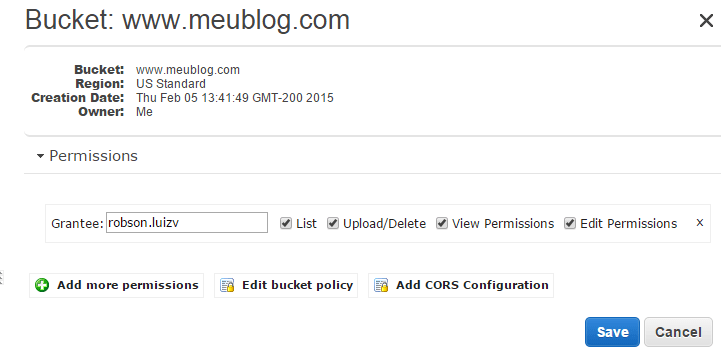
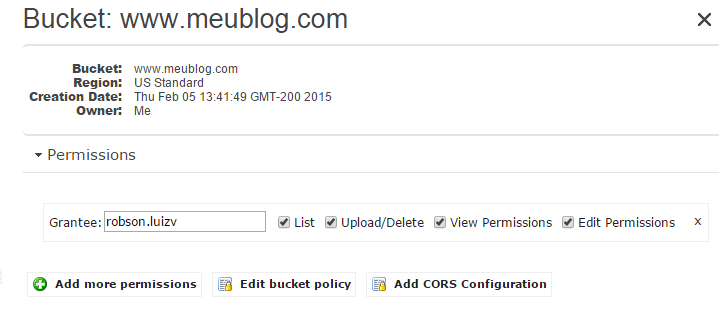
Pequenos ajustes nas imagens

diff --git a/_posts/2015-02-10-hospedando-seu-blog-na-aws-por-centavos.md b/_posts/2015-02-10-hospedando-seu-blog-na-aws-por-centavos.md
@@ -28,6 +28,7 @@ O Willian Justen escreveu um [ótimo post](http://willianjusten.com.br/perguntas
 
 O Fernando Daciuk tem [diversos posts](http://blog.da2k.com.br/2014/01/19/manter-repositorio-github-forkado-sincronizado-com-o-original/) sobre Git e Github no seu blog. 
 
+
 ##Hospedagem
 
 Para hospedagem vou demonstrar alguns serviços da AWS (Amazon Web Services). A AWS oferece uma enorme gama de serviços utilizando o paradigma de Cloud Computing. A principal característica destes serviços é o modelo pay-as-you-go, onde você só é cobrado pelo tempo que utilizar o serviço, sem contratos.
@@ -54,7 +55,7 @@ No console principal, selecione o S3:
 	<img src="/images/2015-02-10-hospedando-seu-blog-na-aws-por-centavos/1.png" alt="image">
 </figure>
 
-Clique no botão "Create Bucket". O bucket é o lugar onde irão ficar armazenados seus objetos no S3. Após, preencha o nome do bucket com o domínio do seu blog. Escolha a região US Standard pois é a mais barata e clique em "Create".
+Clique no botão *Create Bucket*. O bucket é o lugar onde irão ficar armazenados seus objetos no S3. Após, preencha o nome do bucket com o domínio do seu blog. Escolha a região US Standard pois é a mais barata e clique em *Create*.
 
 <figure>
 	<img src="/images/2015-02-10-hospedando-seu-blog-na-aws-por-centavos/2.png" alt="image">
@@ -66,7 +67,7 @@ Faça upload do conteúdo do seu blog dentro do bucket. Se você já leu o post 
 	<img src="/images/2015-02-10-hospedando-seu-blog-na-aws-por-centavos/3.png" alt="image">
 </figure>
 
-Selecione o bucket criado e vá na aba "Properties" e na opção "Permissions". Clique no botão "Edit bucket policy"
+Selecione o bucket criado e vá na aba *Properties* e na opção *Permissions*. Clique no botão *Edit bucket policy*
 
 <figure>
 	<img src="/images/2015-02-10-hospedando-seu-blog-na-aws-por-centavos/4.png" alt="image">
@@ -91,7 +92,7 @@ Adicione o seguinte código:
 }
 {% endhighlight %}
 
-Agora no menu "Static Web Hosting" selecione a opção "Enable website hosting" e informe sua página inicial e a página de erro.
+Agora no menu *Static Web Hosting* selecione a opção *Enable website hosting* e informe sua página inicial e a página de erro.
 
 <figure>
 	<img src="/images/2015-02-10-hospedando-seu-blog-na-aws-por-centavos/5.png" alt="image">
@@ -113,45 +114,45 @@ Mas como podemos entregar o conteúdo do nosso blog de forma otimizada para qual
 
 Assim se alguém acessar o seu blog do Brasil, os arquivos serão recuperados dos servidores da AWS localizados no Brasil, reduzindo a latência e entregando uma melhor experiência para o leitor.
 
-O primeiro passo para termos estas vantagens em nosso blog é selecionar a opção CloudFront no console principal, clicar em "Create Distribution" e selecionar a opção Web. Em "Origin Domain Name" selecione o bucket criado no S3. As demais opções não precisam ser alteradas.
+O primeiro passo para termos estas vantagens em nosso blog é selecionar a opção CloudFront no console principal, clicar em *Create Distribution* e selecionar a opção Web. Em *Origin Domain Name* selecione o bucket criado no S3. As demais opções não precisam ser alteradas.
 
 <figure>
 	<img src="/images/2015-02-10-hospedando-seu-blog-na-aws-por-centavos/7.png" alt="image">
 </figure>
 
-No campo "Alternate Domain Names" coloque o domínio do seu blog das duas formas que são mostradas na imagem. Também adicione o objeto raiz da sua distribuição, que será o mesmo que você selecionou no S3, nesse caso o index.html. As demais opções podem permanecer com os valores padrão.
+No campo *Alternate Domain Names* coloque o domínio do seu blog das duas formas que são mostradas na imagem. Também adicione o objeto raiz da sua distribuição, que será o mesmo que você selecionou no S3, nesse caso o index.html. As demais opções podem permanecer com os valores padrão.
 
 <figure>
 	<img src="/images/2015-02-10-hospedando-seu-blog-na-aws-por-centavos/8.png" alt="image">
 </figure>
 
-Agora se irmos no menu lateral "Distributions" e selecionarmos a distribuição recém criada, poderemos verificar que ela tem um "Domain Name". Essa url irá devolver também a página inicial do blog, mas agora utilizando o serviço CloudFront. Mas ainda temos uma URL pouco amigável. Chegou a hora de comprarmos nosso próprio domínio.
+Agora se irmos no menu lateral *Distributions* e selecionarmos a distribuição recém criada, poderemos verificar que ela tem um *Domain Name*. Essa url irá devolver também a página inicial do blog, mas agora utilizando o serviço CloudFront. Mas ainda temos uma URL pouco amigável. Chegou a hora de comprarmos nosso próprio domínio.
 
 ## Obtendo uma URL amigável com Route53
 
-Agora que já temos nossos arquivos hospedados e sendo entregues da melhor forma possível, precisamos ter uma URL amigável para que nosso blog seja encontrado facilmente pelos leitores. O primeiro passo é adquirir um domínio, que será o endereço de seu blog na web. Selecione o Route53 no console principal, "Registered Domains", "Register Domain". Escolha o nome do seu domínio e a extensão final da URL. Domínios .com custam $12, mas não se assuste com esse valor ele é anual. 
+Agora que já temos nossos arquivos hospedados e sendo entregues da melhor forma possível, precisamos ter uma URL amigável para que nosso blog seja encontrado facilmente pelos leitores. O primeiro passo é adquirir um domínio, que será o endereço de seu blog na web. Selecione o Route53 no console principal, *Registered Domains*, *Register Domain*. Escolha o nome do seu domínio e a extensão final da URL. Domínios .com custam $12, mas não se assuste com esse valor ele é anual. 
 
 <figure>
 	<img src="/images/2015-02-10-hospedando-seu-blog-na-aws-por-centavos/9.png" alt="image">
 </figure>
 
-Clicando no botão "check" o sistema irá verificar se o domínio escolhido está disponível. Se positivo clique em "continue" até finalizar a compra.
+Clicando no botão *check* o sistema irá verificar se o domínio escolhido está disponível. Se positivo clique em *continue* até finalizar a compra.
 
 Agora que temos nosso domínio precisamos fazer as configurações de [DNS](http://www.wikiwand.com/pt/Domain_Name_System) para quando o leitor digitar o endereço do nosso blog ele seja redirecionado para a nossa distribuição do CloudFront.
 
-Ainda no Route53 clique na opção "Hosted Zones", e depois em "Create Hosted Zone". Em "Domain Name" coloque o endereço do seu blog e clique em "Create".
+Ainda no Route53 clique na opção *Hosted Zones*, e depois em *Create Hosted Zone*. Em *Domain Name* coloque o endereço do seu blog e clique em *Create*.
 
 <figure>
 	<img src="/images/2015-02-10-hospedando-seu-blog-na-aws-por-centavos/10.png" alt="image">
 </figure>
 
-Com a Hosted Zone selecionada clique em "Go to Record Sets". Clique em "Create Record Set". Marque a opção "Alias" como Yes, e selecione sua distribuição do CloudFront no campo "Alias Target".
+Com a Hosted Zone selecionada clique em *Go to Record Sets*. Clique em *Create Record Set*. Marque a opção *Alias* como Yes, e selecione sua distribuição do CloudFront no campo *Alias Target*.
 
 <figure>
 	<img src="/images/2015-02-10-hospedando-seu-blog-na-aws-por-centavos/11.png" alt="image">
 </figure>
 
-Faça o mesmo procedimento novamente, mas agora preenchendo o campo "Name" com www. Seus Records Sets devem estar parecidos com estes.
+Faça o mesmo procedimento novamente, mas agora preenchendo o campo *Name* com www. Seus Records Sets devem estar parecidos com estes.
 
 <figure>
 	<img src="/images/2015-02-10-hospedando-seu-blog-na-aws-por-centavos/12.png" alt="image">
